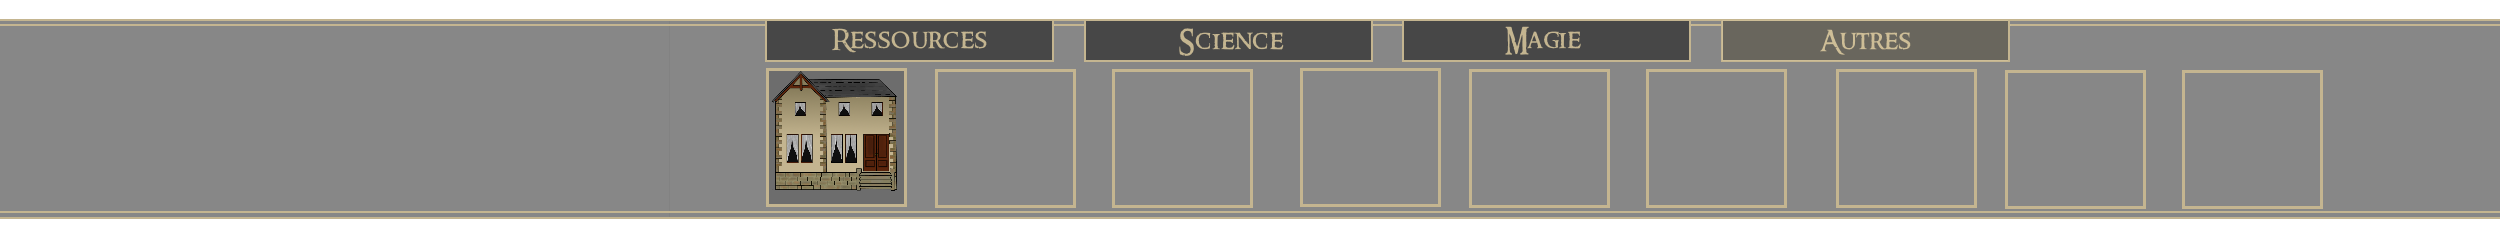
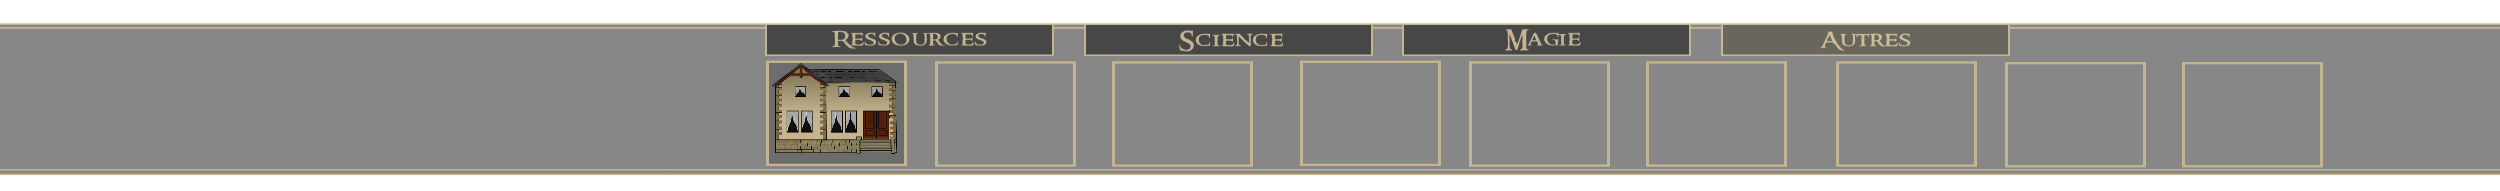
up

Changed region(s): [[0.0, 0.0785, 1.0, 0.5236], [0.0, 0.8377, 1.0, 0.9162], [0.312, 0.5497, 0.3744, 0.8115]]

diff --git a/src/jeu/Ecran.java b/src/jeu/Ecran.java
@@ -32,6 +32,8 @@ public class Ecran extends JPanel {
 	private Image imgPremierPlan;
 	private ImageIcon icoMenu;
 	private Image imgMenu;
+	private ImageIcon icoMenuBas;
+	private Image imgMenuBas;
 	
 	Dimension screenSize;
 	
@@ -41,6 +43,9 @@ public class Ecran extends JPanel {
 	private int xFond4=0;
 	private int xPremierPlan=0;
 	private int xMenu=0;
+	private int xMenuBas=0;
+	
+	private int yMenuBas=850;
 	
 	private int defaultSize = 2000;
 	
@@ -64,6 +69,8 @@ public class Ecran extends JPanel {
         imgPremierPlan = icoPremierPlan.getImage();
 		icoMenu = new ImageIcon(getClass().getResource("/assets/images/fond/menu.png"));
         imgMenu = icoMenu.getImage();
+        icoMenuBas = new ImageIcon(getClass().getResource("/assets/images/fond/menuBas.png"));
+        imgMenuBas = icoMenuBas.getImage();
         screenSize = Toolkit.getDefaultToolkit().getScreenSize();
         
         this.setFocusable(true);  
@@ -102,6 +109,7 @@ public class Ecran extends JPanel {
  		g2.drawImage(this.imgFond4, this.xFond4, 0, defaultSize*5, (int) screenSize.getHeight(), null);
  		g2.drawImage(this.imgPremierPlan, this.xPremierPlan, 0, defaultSize*6, (int) screenSize.getHeight(), null);
  		g2.drawImage(this.imgMenu, this.xMenu, 0, (int) screenSize.getWidth(), (int) screenSize.getHeight()*17/100, null);
+ 		g2.drawImage(this.imgMenuBas, this.xMenuBas, this.yMenuBas, (int) screenSize.getWidth(), (int) screenSize.getHeight()*17/100, null);
  		
 	}
 	
@@ -122,6 +130,8 @@ public class Ecran extends JPanel {
 	
 	public int getxMenu() {return xMenu;}
 	
+	public int getxMenuBas() {return xMenuBas;}
+	
 	public int getDefaultSize() {return defaultSize;}
 	
 	//**** SETTERS ****//
@@ -140,5 +150,7 @@ public class Ecran extends JPanel {
 	public void setxPremierPlan(int xPremierPlan) {this.xPremierPlan=xPremierPlan;}
 	
 	public void setxMenu(int xMenu) {this.xMenu=xMenu;}
+	
+	public void setxMenuBas(int xMenuBas) {this.xMenu=xMenuBas;}
 
 }
